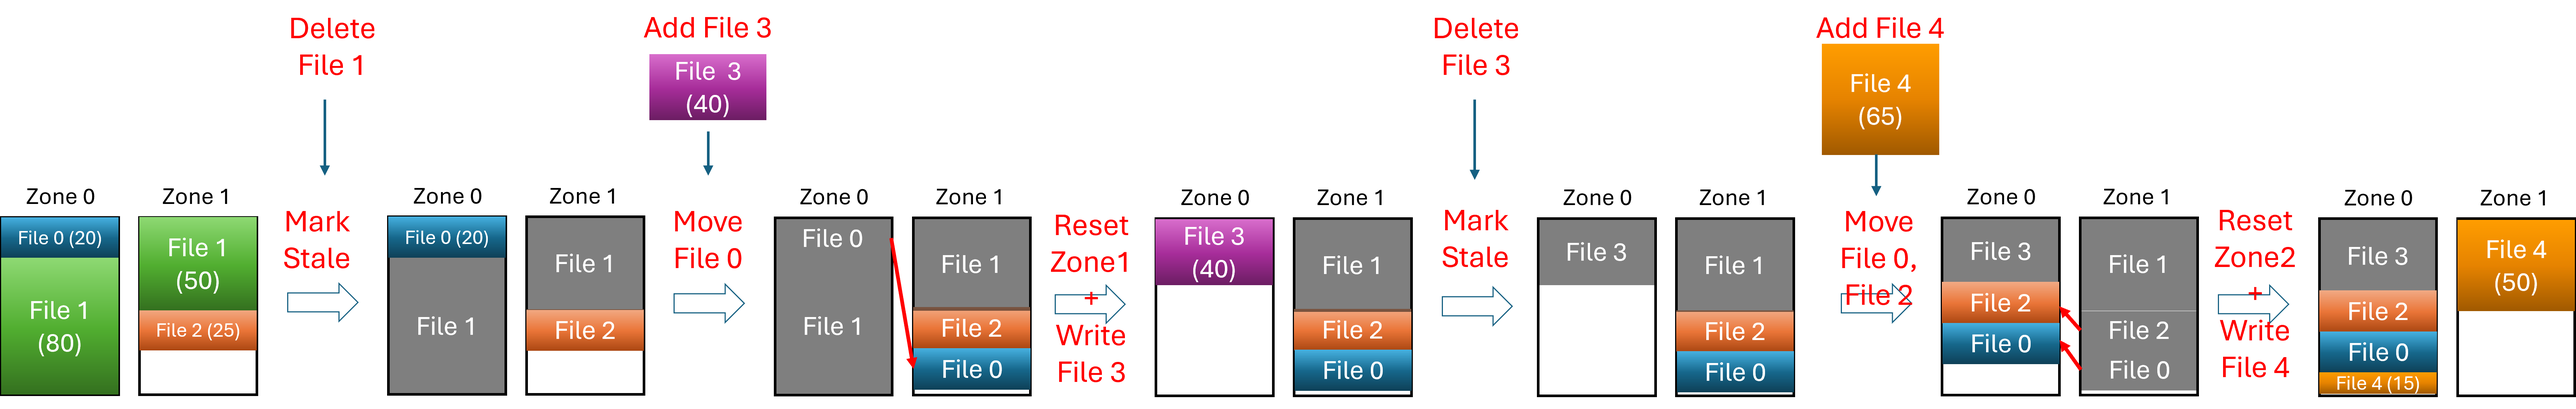
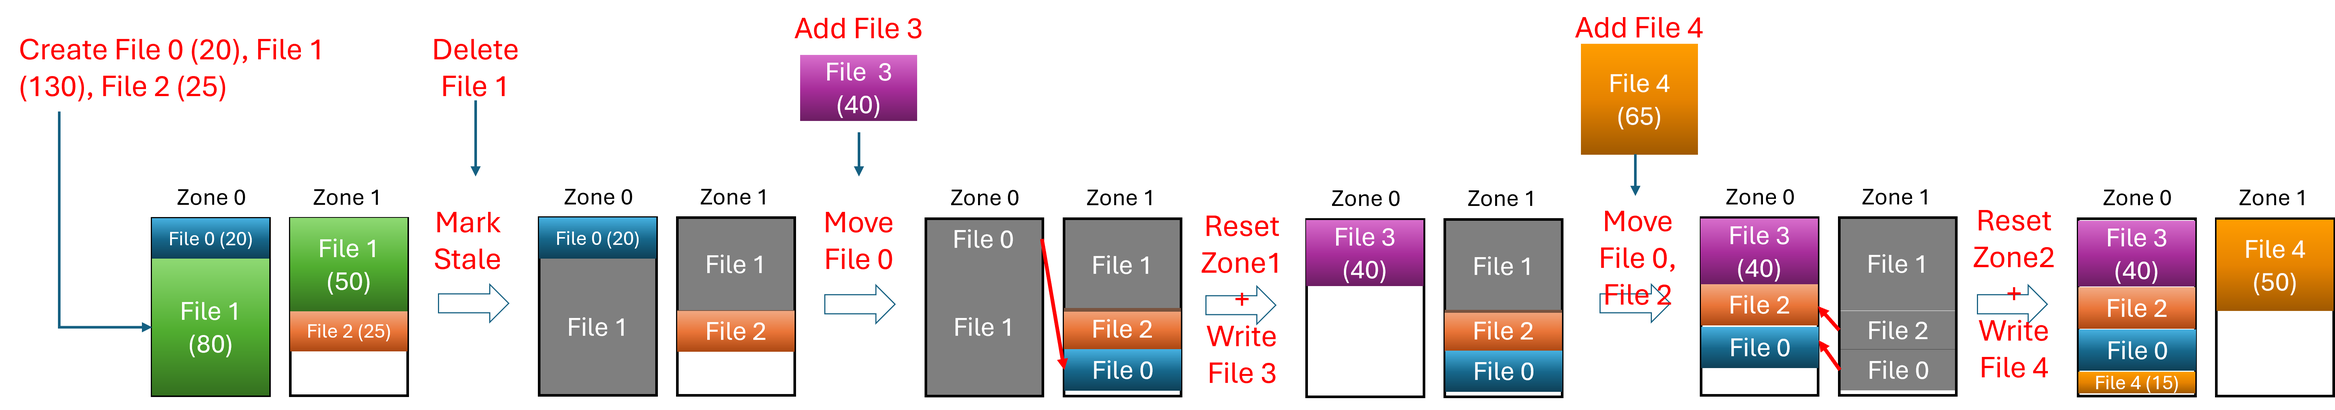
Add unit tests and update the figure of test case 1

diff --git a/unit_test.py b/unit_test.py
@@ -1,0 +1,48 @@
+from zns_sim import *
+
+def test_write():
+    zns_fs = ZnsFileSystem(num_of_zones=3, num_of_blocks=3, block_size=100, verbose=True)
+
+    zns_fs.createFile(400)
+    zns_fs.createFile(400)
+
+    # Check if the inode of Zone 1, Block 0 is 0
+    assert zns_fs.ssd.group_list[1].group_list[0].group_list[0].file_chunk_list[0].inode == 0
+
+    # Check if the inode of Zone 1, Block 1 is 1
+    assert zns_fs.ssd.group_list[1].group_list[1].group_list[0].file_chunk_list[0].inode == 1
+    assert zns_fs.ssd.remain_space == 100
+
+
+def test_delete():
+    zns_fs = ZnsFileSystem(num_of_zones=2, num_of_blocks=5, block_size=100, verbose=True)
+
+    zns_fs.createFile(150)
+    zns_fs.createFile(225)
+    zns_fs.createFile(375)
+    # Delete only mark file as stale, the real delete is Zone reset
+    zns_fs.deleteFile(1) 
+    stale_size = zns_fs.ssd.getStaleSize()
+
+    assert zns_fs.ssd.remain_space == 250
+    assert stale_size == 225
+
+def test_gc_stale_greedy():
+    zns_fs = ZnsFileSystem(num_of_zones=2, num_of_blocks=1, block_size=100) 
+
+    zns_fs.createFile(20)
+    zns_fs.createFile(130)
+    zns_fs.createFile(25)
+
+    zns_fs.deleteFile(1)
+    zns_fs.gcStaleGreedy()
+    zns_fs.createFile(40)
+    zns_fs.deleteFile(3)
+    zns_fs.gcStaleGreedy()
+    zns_fs.createFile(65)
+    stale_size = zns_fs.ssd.getStaleSize()
+
+    assert zns_fs.gc_migrate_times == 3
+    assert zns_fs.gc_zone_reset_times == 2
+    assert zns_fs.ssd.remain_space == 50
+    assert stale_size == 40
